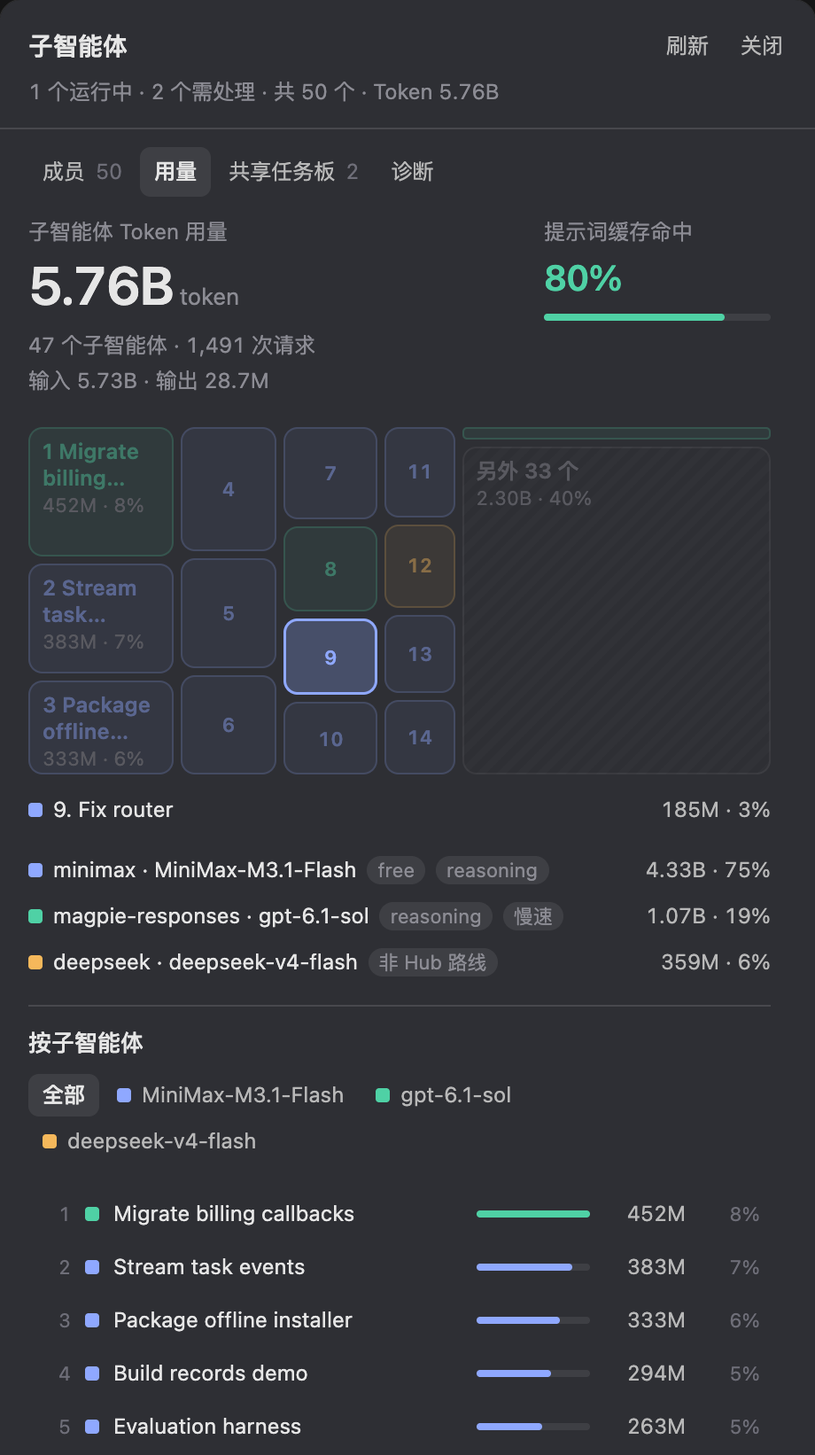
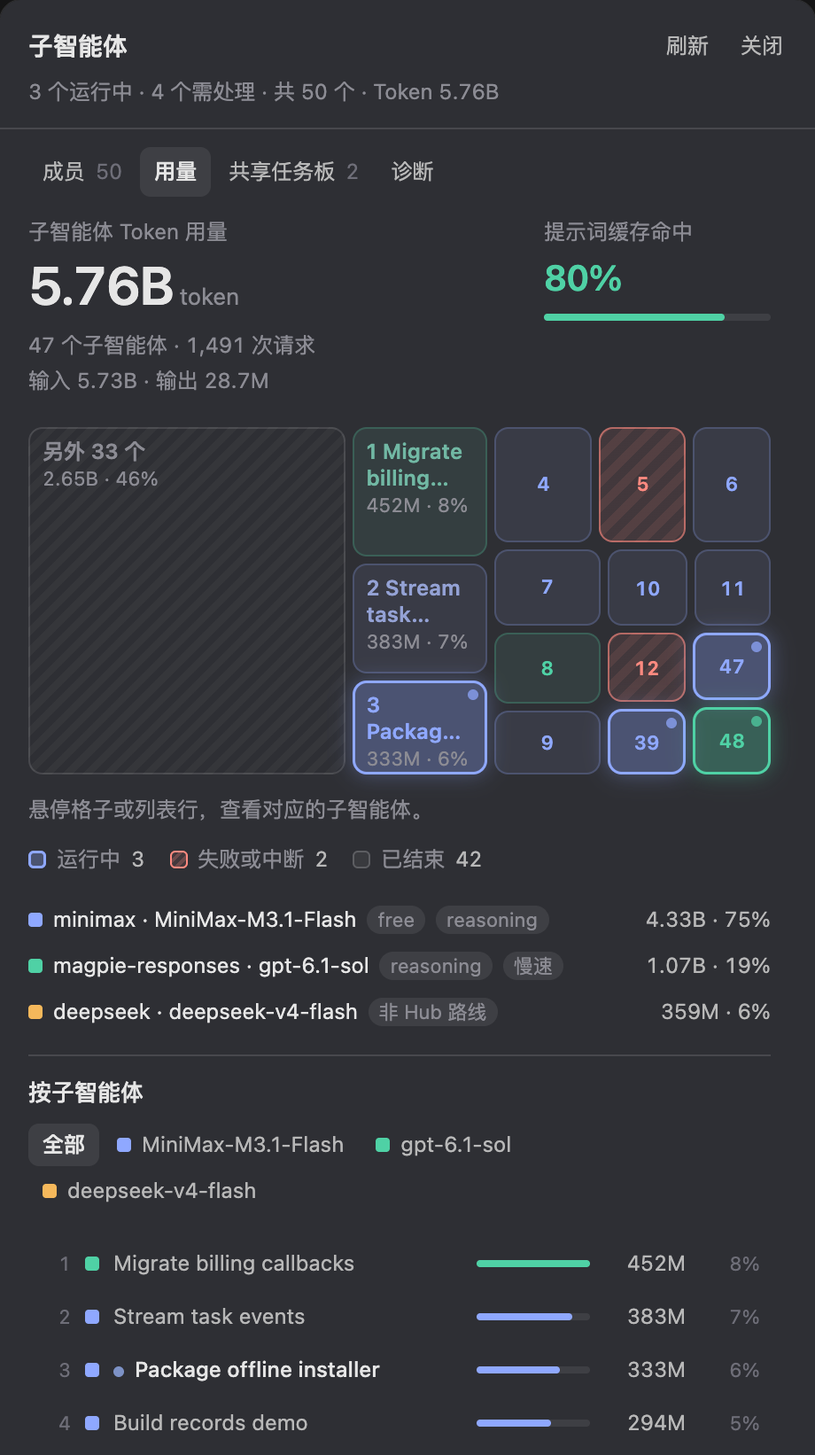
release: 0.12.1
Running agents always appear in the usage tab, and tiles read as running,
failed or interrupted, or finished. The usage screenshot follows the new look.

diff --git a/packages/subagent-hub/README.md b/packages/subagent-hub/README.md
@@ -1,15 +1,15 @@
 <p align="center">
-  <img src="https://raw.githubusercontent.com/ccsert/dsh-subagent-hub/v0.12.0/docs/assets/hero.webp" alt="Subagent Hub — Named roles. Clear routes. Visible models." width="100%">
+  <img src="https://raw.githubusercontent.com/ccsert/dsh-subagent-hub/v0.12.1/docs/assets/hero.webp" alt="Subagent Hub — Named roles. Clear routes. Visible models." width="100%">
 </p>
 
 <p align="center">
-  <a href="https://github.com/ccsert/dsh-subagent-hub/releases/tag/v0.12.0"><img src="https://img.shields.io/badge/version-0.12.0-66c8ab" alt="Version 0.12.0"></a>
-  <a href="https://github.com/ccsert/dsh-subagent-hub/blob/v0.12.0/LICENSE"><img src="https://img.shields.io/badge/license-MIT-blue" alt="MIT license"></a>
-  <a href="https://github.com/ccsert/dsh-subagent-hub/blob/v0.12.0/docs/install.md"><img src="https://img.shields.io/badge/DSH_Desktop-0.12.1-7087ad" alt="Tested with DSH Desktop 0.12.1"></a>
-  <a href="https://github.com/ccsert/dsh-subagent-hub/blob/v0.12.0/CONTRIBUTING.md"><img src="https://img.shields.io/badge/verified-248_unit_%2B_33_runtime-66c8ab" alt="248 unit tests and 33 runtime assertions verified"></a>
+  <a href="https://github.com/ccsert/dsh-subagent-hub/releases/tag/v0.12.1"><img src="https://img.shields.io/badge/version-0.12.1-66c8ab" alt="Version 0.12.1"></a>
+  <a href="https://github.com/ccsert/dsh-subagent-hub/blob/v0.12.1/LICENSE"><img src="https://img.shields.io/badge/license-MIT-blue" alt="MIT license"></a>
+  <a href="https://github.com/ccsert/dsh-subagent-hub/blob/v0.12.1/docs/install.md"><img src="https://img.shields.io/badge/DSH_Desktop-0.12.1-7087ad" alt="Tested with DSH Desktop 0.12.1"></a>
+  <a href="https://github.com/ccsert/dsh-subagent-hub/blob/v0.12.1/CONTRIBUTING.md"><img src="https://img.shields.io/badge/verified-249_unit_%2B_33_runtime-66c8ab" alt="249 unit tests and 33 runtime assertions verified"></a>
 </p>
 
-<p align="center"><a href="https://github.com/ccsert/dsh-subagent-hub/blob/v0.12.0/README.md">简体中文</a> · <b>English</b></p>
+<p align="center"><a href="https://github.com/ccsert/dsh-subagent-hub/blob/v0.12.1/README.md">简体中文</a> · <b>English</b></p>
 
 # Subagent Hub
 
@@ -17,7 +17,7 @@
 
 Uses official `subagent` / `subagent_fork` dispatch, Agent Presets, and conversation UI. Keep your existing main-agent preset.
 
-[Install](https://github.com/ccsert/dsh-subagent-hub/blob/v0.12.0/docs/install.md) · [Download a release](https://github.com/ccsert/dsh-subagent-hub/releases/latest) · [Configuration example](https://github.com/ccsert/dsh-subagent-hub/blob/v0.12.0/examples/subagent-hub.yml) · [Changelog](https://github.com/ccsert/dsh-subagent-hub/blob/v0.12.0/CHANGELOG.md) · [Contribute](https://github.com/ccsert/dsh-subagent-hub/blob/v0.12.0/CONTRIBUTING.md)
+[Install](https://github.com/ccsert/dsh-subagent-hub/blob/v0.12.1/docs/install.md) · [Download a release](https://github.com/ccsert/dsh-subagent-hub/releases/latest) · [Configuration example](https://github.com/ccsert/dsh-subagent-hub/blob/v0.12.1/examples/subagent-hub.yml) · [Changelog](https://github.com/ccsert/dsh-subagent-hub/blob/v0.12.1/CHANGELOG.md) · [Contribute](https://github.com/ccsert/dsh-subagent-hub/blob/v0.12.1/CONTRIBUTING.md)
 
 ## Features
 
@@ -35,7 +35,7 @@ Uses official `subagent` / `subagent_fork` dispatch, Agent Presets, and conversa
 
 An optional **Agent overview** is available, off by default. Enable **Show agent overview** under **Settings → Subagent Hub → General** and save to show the header entry immediately. Turning it off leaves the official Agent Team UI available.
 
-Since 0.12.0 it is a non-modal side monitor. The trigger shows the running count, turns amber for approvals, recent failures, or likely stalls, and counts new results while the panel is closed. Each card shows the task, the current tool call and its timer, approval waits, the agent's own plan, its latest report or output, and the model with the effort that actually ran; the details hold the last 12 steps. The **Usage** tab splits child tokens by the route each request used, with cache hits, a route-colored treemap, and Hub route tags. The activity digest comes from the plugin's own `subagentHubActivity` projection and keeps only short descriptive tool fields, never command lines or file contents. An inactive teammate is not a completed task; missing usage remains unknown.
+Since 0.12.1 it is a non-modal side monitor. The trigger shows the running count, turns amber for approvals, recent failures, or likely stalls, and counts new results while the panel is closed. Each card shows the task, the current tool call and its timer, approval waits, the agent's own plan, its latest report or output, and the model with the effort that actually ran; the details hold the last 12 steps. The **Usage** tab splits child tokens by the route each request used, with cache hits, a route-colored treemap, and Hub route tags. The activity digest comes from the plugin's own `subagentHubActivity` projection and keeps only short descriptive tool fields, never command lines or file contents. An inactive teammate is not a completed task; missing usage remains unknown.
 
 Diagnostics replays committed tool results to show the latest 64 Hub guard rejections and the recorded total. Other tool failures are outside this history. Opening or refreshing the panel performs read-only projection refreshes with at most four concurrent reads; it starts no model requests.
 
@@ -43,37 +43,37 @@ Diagnostics replays committed tool results to show the latest 64 Hub guard rejec
 
 **Models and named agents**
 
-![Actual configuration component with demo models and named agents](https://raw.githubusercontent.com/ccsert/dsh-subagent-hub/v0.12.0/docs/assets/settings.webp)
+![Actual configuration component with demo models and named agents](https://raw.githubusercontent.com/ccsert/dsh-subagent-hub/v0.12.1/docs/assets/settings.webp)
 
 **The latest child request**
 
-![Child header naming the model, with the full provider, model ID and reasoning effort in the details](https://raw.githubusercontent.com/ccsert/dsh-subagent-hub/v0.12.0/docs/assets/model-badge.webp)
+![Child header naming the model, with the full provider, model ID and reasoning effort in the details](https://raw.githubusercontent.com/ccsert/dsh-subagent-hub/v0.12.1/docs/assets/model-badge.webp)
 
 **Agent overview**
 
-![Overview monitor: each agent's task, current action, plan and report](https://raw.githubusercontent.com/ccsert/dsh-subagent-hub/v0.12.0/docs/assets/overview.webp)
+![Overview monitor: each agent's task, current action, plan and report](https://raw.githubusercontent.com/ccsert/dsh-subagent-hub/v0.12.1/docs/assets/overview.webp)
 
 **Usage by route**
 
-![Usage tab: total and cache hits, a route-colored treemap and ranked agents](https://raw.githubusercontent.com/ccsert/dsh-subagent-hub/v0.12.0/docs/assets/usage.webp)
+![Usage tab: total and cache hits, a route-colored treemap and ranked agents](https://raw.githubusercontent.com/ccsert/dsh-subagent-hub/v0.12.1/docs/assets/usage.webp)
 
-These are the actual plugin components rendered with demo data. They contain no user profile, private conversation, or credentials. See [screenshot provenance](https://github.com/ccsert/dsh-subagent-hub/blob/v0.12.0/docs/screenshots.md) for full-size and narrow views. The Hero was generated with [dsh-image-gen](https://github.com/shanliuling/dsh-image-gen).
+These are the actual plugin components rendered with demo data. They contain no user profile, private conversation, or credentials. See [screenshot provenance](https://github.com/ccsert/dsh-subagent-hub/blob/v0.12.1/docs/screenshots.md) for full-size and narrow views. The Hero was generated with [dsh-image-gen](https://github.com/shanliuling/dsh-image-gen).
 
 ## Quick start
 
 Tested with **DSH Desktop 0.12.1 / `@deepseek-ai/dsh` 0.2.1-rc.2**. Configure a working model provider in DSH first.
 
-1. Download `dsh-subagent-hub-0.12.0.tgz` from [Releases](https://github.com/ccsert/dsh-subagent-hub/releases/latest).
+1. Download `dsh-subagent-hub-0.12.1.tgz` from [Releases](https://github.com/ccsert/dsh-subagent-hub/releases/latest).
 2. Install it from the target profile directory:
 
    ```bash
-   pnpm add /absolute/path/to/dsh-subagent-hub-0.12.0.tgz
+   pnpm add /absolute/path/to/dsh-subagent-hub-0.12.1.tgz
    ```
 
 3. **Append** `"dsh-subagent-hub"` to `dsh.profile.bundles` in that profile's package manifest. Preserve existing bundles and restart DSH to load the plugin code.
 4. Open **Settings → Subagent Hub**, select models already available in your DSH, and add a role. Enable **Manage the official delegation settings** if you want Hub to synchronize the official allowlists. Save, then start a new conversation.
 
-Git checkout installation, profile locations, upgrades, and removal are covered in the [installation guide](https://github.com/ccsert/dsh-subagent-hub/blob/v0.12.0/docs/install.md). The package is published as [dsh-subagent-hub](https://www.npmjs.com/package/dsh-subagent-hub); fixed GitHub release archives are also available. The Team/inheritance guard requires 0.10.2 or newer.
+Git checkout installation, profile locations, upgrades, and removal are covered in the [installation guide](https://github.com/ccsert/dsh-subagent-hub/blob/v0.12.1/docs/install.md). The package is published as [dsh-subagent-hub](https://www.npmjs.com/package/dsh-subagent-hub); fixed GitHub release archives are also available. The Team/inheritance guard requires 0.10.2 or newer.
 
 ## Minimal configuration
 
@@ -159,7 +159,7 @@ What this saves is **expensive-model tokens**, not total cost, and it does not f
 
 ## Behavior to keep in mind
 
-- **Team context selects history.** In the supported runtime, fresh and fork both inherit the Lead model and have no model-selection input. For a specific child model, use a `subagent` tool whose actual schema exposes model selection. See [Team model routing](https://github.com/ccsert/dsh-subagent-hub/blob/v0.12.0/docs/team-model-routing.md).
+- **Team context selects history.** In the supported runtime, fresh and fork both inherit the Lead model and have no model-selection input. For a specific child model, use a `subagent` tool whose actual schema exposes model selection. See [Team model routing](https://github.com/ccsert/dsh-subagent-hub/blob/v0.12.1/docs/team-model-routing.md).
 - **Global routes also guard inheritance.** A nonempty `routes` list bounds all three creation tools; out-of-list or unconfirmed models are refused. An empty list retains native inheritance. Existing members and later request rewrites are outside this creation check.
 - **Tags guide decisions.** Tags such as `fast`, `reasoning`, or `free` are maintained by you. Use a role's `routes` for a hard route boundary. Tags do not verify pricing or implement automatic fallback.
 - **The guard runs before dispatch.** Model rewrites performed by other plugins during a later child request are outside this guard. Check those plugins when combining route policies.
@@ -167,7 +167,7 @@ What this saves is **expensive-model tokens**, not total cost, and it does not f
 - **Managed settings are opt-in.** `manageOfficialSettings` defaults to `false`. Enabling it synchronizes official allowlists. Disabling it stops syncing and retains settings already written.
 - **Managed writes are upgrade-safe.** The Hub owns only `allowedAgentPresets` on the spawn delegation row (`@deepseek-ai/dsh-tool-subagent` with `provider: spawn`) inside an official preset. Each successful write records a Hub-owned baseline in `cordis.patch.yml.subagent-hub-baseline.json`, and the first write of a run copies the profile patch to `cordis.patch.yml.backup-<timestamp>-subagent-hub` first. After a DSH upgrade, only a preset the Hub wrote and the user has not edited is re-derived wholesale from the new shipped preset; a user-edited preset gets additive repairs only and is marked foreign, so it is never rebased again. A frozen snapshot written by an older version self-heals on the next sync. The primary repair signal is the authoritative preset activation diagnostic (`agentPresets.list()` `broken`): only rows in a line ending exactly `: never started` are removed, and only when the current shipped preset does not declare them; `waiting for` pending rows and base-declared rows are never deleted. Package resolution is a conservative secondary signal: only the running installation's own resolution anchor may decide, a development symlink or profile-local copy can only make the answer ambiguous, and a row neither signal can judge is reported in the log, never deleted. The spawn row is then restored to the current shipped config plus `allowedAgentPresets`, and every other row is left untouched.
 - **Existing conversations keep their tool schema.** Saved configuration is live; use a new conversation for newly added roles or tool parameters. Plugin code upgrades require a DSH restart.
-- **Desktop model badges need 0.10.3 or newer.** This fixes the required native list-slot registration field. A component demo is distinct from a reload of the current Desktop window; see the [mounting fix record](https://github.com/ccsert/dsh-subagent-hub/blob/v0.12.0/docs/model-badge-acceptance.md).
+- **Desktop model badges need 0.10.3 or newer.** This fixes the required native list-slot registration field. A component demo is distinct from a reload of the current Desktop window; see the [mounting fix record](https://github.com/ccsert/dsh-subagent-hub/blob/v0.12.1/docs/model-badge-acceptance.md).
 - **The model badge shows request history.** `lastUsed` identifies the latest request; a different `next` selection is shown separately. A ready empty history says “No request yet”; unavailable data says “Unconfirmed.” A request record does not establish success or billing, and forked history may include inherited requests.
 - **The summary names the model; the details keep the ids.** The header summary shows the catalog display name the configuration page uses (for example `Qwen3.8-Flash · Qoder CN`), and falls back to `provider · id tail` when the catalog does not list the route. The expanded details, and a planned route in the agent overview, always keep the exact provider and model id as evidence.
 
@@ -181,8 +181,8 @@ bash test.sh           # real DSH integration in a temporary DSH_HOME
 npm run pack:check     # inspect the distributable archive
 ```
 
-This release is verified by **248 unit tests and 33 real-runtime assertions**. Integration uses scripted model streams and makes no external model calls. CI runs unit, documentation, and package checks. See the [settings acceptance record](https://github.com/ccsert/dsh-subagent-hub/blob/v0.12.0/docs/ui-acceptance.md) and [model badge acceptance record](https://github.com/ccsert/dsh-subagent-hub/blob/v0.12.0/docs/model-badge-acceptance.md) for scope and limitations. [Team routing verification](https://github.com/ccsert/dsh-subagent-hub/blob/v0.12.0/docs/team-model-routing.md) covers the new creation checks.
+This release is verified by **249 unit tests and 33 real-runtime assertions**. Integration uses scripted model streams and makes no external model calls. CI runs unit, documentation, and package checks. See the [settings acceptance record](https://github.com/ccsert/dsh-subagent-hub/blob/v0.12.1/docs/ui-acceptance.md) and [model badge acceptance record](https://github.com/ccsert/dsh-subagent-hub/blob/v0.12.1/docs/model-badge-acceptance.md) for scope and limitations. [Team routing verification](https://github.com/ccsert/dsh-subagent-hub/blob/v0.12.1/docs/team-model-routing.md) covers the new creation checks.
 
-Issues and PRs are welcome. Read [CONTRIBUTING](https://github.com/ccsert/dsh-subagent-hub/blob/v0.12.0/CONTRIBUTING.md), the [design notes](https://github.com/ccsert/dsh-subagent-hub/blob/v0.12.0/docs/design.md), and the [release guide](https://github.com/ccsert/dsh-subagent-hub/blob/v0.12.0/docs/releasing.md). The previous v0.3.0 architecture remains available at its tag.
+Issues and PRs are welcome. Read [CONTRIBUTING](https://github.com/ccsert/dsh-subagent-hub/blob/v0.12.1/CONTRIBUTING.md), the [design notes](https://github.com/ccsert/dsh-subagent-hub/blob/v0.12.1/docs/design.md), and the [release guide](https://github.com/ccsert/dsh-subagent-hub/blob/v0.12.1/docs/releasing.md). The previous v0.3.0 architecture remains available at its tag.
 
-[MIT License](https://github.com/ccsert/dsh-subagent-hub/blob/v0.12.0/LICENSE) · Maintained by [ccsert](https://github.com/ccsert)
+[MIT License](https://github.com/ccsert/dsh-subagent-hub/blob/v0.12.1/LICENSE) · Maintained by [ccsert](https://github.com/ccsert)

diff --git a/README.md b/README.md
@@ -3,10 +3,10 @@
 </p>
 
 <p align="center">
-  <a href="https://github.com/ccsert/dsh-subagent-hub/releases/tag/v0.12.0"><img src="https://img.shields.io/badge/version-0.12.0-66c8ab" alt="Version 0.12.0"></a>
+  <a href="https://github.com/ccsert/dsh-subagent-hub/releases/tag/v0.12.1"><img src="https://img.shields.io/badge/version-0.12.1-66c8ab" alt="Version 0.12.1"></a>
   <a href="LICENSE"><img src="https://img.shields.io/badge/license-MIT-blue" alt="MIT license"></a>
   <a href="docs/install.md"><img src="https://img.shields.io/badge/DSH_Desktop-0.12.1-7087ad" alt="Tested with DSH Desktop 0.12.1"></a>
-  <a href="CONTRIBUTING.md"><img src="https://img.shields.io/badge/verified-248_unit_%2B_33_runtime-66c8ab" alt="248 unit tests and 33 runtime assertions verified"></a>
+  <a href="CONTRIBUTING.md"><img src="https://img.shields.io/badge/verified-249_unit_%2B_33_runtime-66c8ab" alt="249 unit tests and 33 runtime assertions verified"></a>
 </p>
 
 <p align="center"><b>简体中文</b> · <a href="README.en.md">English</a></p>
@@ -36,7 +36,7 @@
 
 可选的 **子智能体总览** 默认关闭。在「设置 → 子代理中枢 → 基础设置」打开「显示子智能体总览」并保存，标题栏入口随即显示；关闭后仍可使用官方智能体团队界面。
 
-0.12.0 起它是一个不遮挡对话的右侧监控栏：
+0.12.1 起它是一个不遮挡对话的右侧监控栏：
 
 - **入口即状态**：按钮显示运行数；有子 agent 等待审批、一小时内中断或失败、或疑似卡住时变黄；关闭面板期间有子 agent 完成回合或发来汇报时显示蓝色计数。
 - **卡片回答“它在干什么”**：任务、正在调用的工具与计时、审批等待、自己的计划进度、最近汇报或输出、模型与实际推理强度（含“模型默认”）；展开可见最近 12 步时间线。
@@ -71,11 +71,11 @@
 
 已验证环境：**DSH Desktop 0.12.1 / `@deepseek-ai/dsh` 0.2.1-rc.2**。先在 DSH 中配置好可以调用的模型供应商。
 
-1. 在 [Release](https://github.com/ccsert/dsh-subagent-hub/releases/latest) 下载 `dsh-subagent-hub-0.12.0.tgz`。
+1. 在 [Release](https://github.com/ccsert/dsh-subagent-hub/releases/latest) 下载 `dsh-subagent-hub-0.12.1.tgz`。
 2. 在目标 profile 目录安装归档：
 
    ```bash
-   pnpm add /absolute/path/to/dsh-subagent-hub-0.12.0.tgz
+   pnpm add /absolute/path/to/dsh-subagent-hub-0.12.1.tgz
    ```
 
 3. 向该 profile 的 `package.json` 中 `dsh.profile.bundles` **追加** `"dsh-subagent-hub"`，保留原有 bundle；重启 DSH 加载插件代码。
@@ -192,7 +192,7 @@ bash test.sh           # 真实 DSH 运行时集成验证，使用临时 DSH_HOM
 npm run pack:check     # 检查将交付的 npm 格式归档
 ```
 
-本版本验证了 **248 项单元测试和 33 项真实运行时断言**，并通过安装包中实际 Desktop 插槽注册器的独立回归。集成测试使用脚本化模型流，不调用外部模型。CI 运行单测、文档检查和打包检查；真实运行时验证另见[配置页验收](docs/ui-acceptance.md)、[模型标识验收](docs/model-badge-acceptance.md)和 [Team 路由验证](docs/team-model-routing.md)。
+本版本验证了 **249 项单元测试和 33 项真实运行时断言**，并通过安装包中实际 Desktop 插槽注册器的独立回归。集成测试使用脚本化模型流，不调用外部模型。CI 运行单测、文档检查和打包检查；真实运行时验证另见[配置页验收](docs/ui-acceptance.md)、[模型标识验收](docs/model-badge-acceptance.md)和 [Team 路由验证](docs/team-model-routing.md)。
 
 欢迎通过 [Issues](https://github.com/ccsert/dsh-subagent-hub/issues) 报告问题或提交 PR。架构、验证环境和发版步骤见 [CONTRIBUTING](CONTRIBUTING.md)、[设计说明](docs/design.md)和[发布指南](docs/releasing.md)。v0.3.0 的旧架构保留在对应 tag 中。
 

diff --git a/README.en.md b/README.en.md
@@ -3,10 +3,10 @@
 </p>
 
 <p align="center">
-  <a href="https://github.com/ccsert/dsh-subagent-hub/releases/tag/v0.12.0"><img src="https://img.shields.io/badge/version-0.12.0-66c8ab" alt="Version 0.12.0"></a>
+  <a href="https://github.com/ccsert/dsh-subagent-hub/releases/tag/v0.12.1"><img src="https://img.shields.io/badge/version-0.12.1-66c8ab" alt="Version 0.12.1"></a>
   <a href="LICENSE"><img src="https://img.shields.io/badge/license-MIT-blue" alt="MIT license"></a>
   <a href="docs/install.md"><img src="https://img.shields.io/badge/DSH_Desktop-0.12.1-7087ad" alt="Tested with DSH Desktop 0.12.1"></a>
-  <a href="CONTRIBUTING.md"><img src="https://img.shields.io/badge/verified-248_unit_%2B_33_runtime-66c8ab" alt="248 unit tests and 33 runtime assertions verified"></a>
+  <a href="CONTRIBUTING.md"><img src="https://img.shields.io/badge/verified-249_unit_%2B_33_runtime-66c8ab" alt="249 unit tests and 33 runtime assertions verified"></a>
 </p>
 
 <p align="center"><a href="README.md">简体中文</a> · <b>English</b></p>
@@ -56,11 +56,11 @@ These are the actual plugin components rendered with demo data. They contain no 
 
 Tested with **DSH Desktop 0.12.1 / `@deepseek-ai/dsh` 0.2.1-rc.2**. Configure a working model provider in DSH first.
 
-1. Download `dsh-subagent-hub-0.12.0.tgz` from [Releases](https://github.com/ccsert/dsh-subagent-hub/releases/latest).
+1. Download `dsh-subagent-hub-0.12.1.tgz` from [Releases](https://github.com/ccsert/dsh-subagent-hub/releases/latest).
 2. Install it from the target profile directory:
 
    ```bash
-   pnpm add /absolute/path/to/dsh-subagent-hub-0.12.0.tgz
+   pnpm add /absolute/path/to/dsh-subagent-hub-0.12.1.tgz
    ```
 
 3. **Append** `"dsh-subagent-hub"` to `dsh.profile.bundles` in that profile's package manifest. Preserve existing bundles and restart DSH to load the plugin code.
@@ -174,7 +174,7 @@ bash test.sh           # real DSH integration in a temporary DSH_HOME
 npm run pack:check     # inspect the distributable archive
 ```
 
-This release is verified by **248 unit tests and 33 real-runtime assertions**. Integration uses scripted model streams and makes no external model calls. CI runs unit, documentation, and package checks. See the [settings acceptance record](docs/ui-acceptance.md) and [model badge acceptance record](docs/model-badge-acceptance.md) for scope and limitations. [Team routing verification](docs/team-model-routing.md) covers the new creation checks.
+This release is verified by **249 unit tests and 33 real-runtime assertions**. Integration uses scripted model streams and makes no external model calls. CI runs unit, documentation, and package checks. See the [settings acceptance record](docs/ui-acceptance.md) and [model badge acceptance record](docs/model-badge-acceptance.md) for scope and limitations. [Team routing verification](docs/team-model-routing.md) covers the new creation checks.
 
 Issues and PRs are welcome. Read [CONTRIBUTING](CONTRIBUTING.md), the [design notes](docs/design.md), and the [release guide](docs/releasing.md). The previous v0.3.0 architecture remains available at its tag.
 

diff --git a/docs/releasing.md b/docs/releasing.md
@@ -31,17 +31,17 @@ npm pack ./packages/subagent-hub --ignore-scripts --pack-destination output/rele
 
 Inspect the resulting file list and checksum before uploading. The archive should contain runtime code, locale files, the bundle patch, package metadata, a package README, and MIT license. It should not contain tests, generated fixture HTML, profile data, documentation screenshots, or node_modules.
 
-For version 0.12.0:
+For version 0.12.1:
 
 ```bash
-tar -tzf output/releases/dsh-subagent-hub-0.12.0.tgz
-shasum -a 256 output/releases/dsh-subagent-hub-0.12.0.tgz
+tar -tzf output/releases/dsh-subagent-hub-0.12.1.tgz
+shasum -a 256 output/releases/dsh-subagent-hub-0.12.1.tgz
 ```
 
 Write a standard checksum file containing the hash and archive basename so downloaders can verify it in the same directory:
 
 ```bash
-shasum -a 256 -c dsh-subagent-hub-0.12.0.tgz.sha256
+shasum -a 256 -c dsh-subagent-hub-0.12.1.tgz.sha256
 ```
 
 ## Publish on GitHub
@@ -51,12 +51,12 @@ Commit the reviewed changes, push the branch, and wait for CI. Tag that exact co
 Example for this release:
 
 ```bash
-gh release create v0.12.0 \
-  output/releases/dsh-subagent-hub-0.12.0.tgz \
-  output/releases/dsh-subagent-hub-0.12.0.tgz.sha256 \
+gh release create v0.12.1 \
+  output/releases/dsh-subagent-hub-0.12.1.tgz \
+  output/releases/dsh-subagent-hub-0.12.1.tgz.sha256 \
   docs/assets/hero.png \
   --verify-tag \
-  --title "Subagent Hub v0.12.0" \
+  --title "Subagent Hub v0.12.1" \
   --notes-file output/releases/release-notes.md
 ```
 
@@ -70,7 +70,7 @@ The account uses `auth-and-writes` two-factor authentication, so npm requires **
 
 ```bash
 npm whoami
-npx --yes npm@12.2.1 stage publish output/releases/dsh-subagent-hub-0.12.0.tgz
+npx --yes npm@12.2.1 stage publish output/releases/dsh-subagent-hub-0.12.1.tgz
 npx --yes npm@12.2.1 stage list          # copy the stage id
 npx --yes npm@12.2.1 stage approve <stage-id>
 ```

diff --git a/docs/design.md b/docs/design.md
@@ -1,6 +1,6 @@
 # dsh-subagent-hub 设计（v2）
 
-> 状态：0.12.0（路线推理强度生效、白名单报错无歧义、子智能体总览改为实时监控与按路线用量），单元测试 248 项 + 真实运行时 e2e 33 项；另有浏览器交互验收。
+> 状态：0.12.1（用量页按状态区分并始终显示运行中的子智能体；路线推理强度生效、白名单报错无歧义、子智能体总览改为实时监控与按路线用量），单元测试 249 项 + 真实运行时 e2e 33 项；另有浏览器交互验收。
 > 目标运行时：`@deepseek-ai/dsh` 0.2.1-rc.2（DSH Desktop 0.12.1）。
 > 旧方案（M0–M4）完整保留在 git tag **v0.3.0**，作为回滚点。
 
@@ -218,7 +218,7 @@ v1 的 M0 spike（[`spikes/m0-runtime/README.md`](../spikes/m0-runtime/README.md
 
 ## 7. 测试与验收
 
-`bash test.sh`：248 项单元测试 + 33 项 e2e 断言（真实 `dsh`，临时 `DSH_HOME`，无模型凭据，`llm/stream` 脚本化）。
+`bash test.sh`：249 项单元测试 + 33 项 e2e 断言（真实 `dsh`，临时 `DSH_HOME`，无模型凭据，`llm/stream` 脚本化）。
 
 e2e 断言覆盖：具名预设注册成功；`manageOfficialSettings` 写入预设行与模型设置；路由表与 Host 设置一致；spawn 行拿到 allowlist、fork 行不动；主 agent 的官方 `subagent` schema 出现 `agent_preset` / `provider` / `model` / `reasoning_effort`；prompt 段落含目录；越界 `provider/model` 被守卫拒绝；具名 agent 通过 `agent_preset` 生效且 persona 含 instructions；省略路由时继承父路由；普通子 agent 不被具名守卫限制；client bundle 上架；配置行有可写表单；通过 Host settings 服务 live 新增具名 agent 后，预设、`allowedAgentPresets`、新会话 schema、persona 全部更新。
 

diff --git a/docs/install.md b/docs/install.md
@@ -4,7 +4,7 @@
 
 已验证：**DSH Desktop 0.12.1 / `@deepseek-ai/dsh` 0.2.1-rc.2**。插件使用官方 Agent Presets、模型选择和会话投影接口。先在 DSH 中配置并验证要使用的模型供应商。
 
-CLI 管理的独立 profile 可以使用 `dsh plugin --profile web add dsh-subagent-hub@0.12.0`。Desktop 用户应使用应用自身的插件安装/管理入口；若按下文手动修改 Desktop profile，先退出应用，完成后再启动。
+CLI 管理的独立 profile 可以使用 `dsh plugin --profile web add dsh-subagent-hub@0.12.1`。Desktop 用户应使用应用自身的插件安装/管理入口；若按下文手动修改 Desktop profile，先退出应用，完成后再启动。
 
 ## 1. 找到目标 profile
 
@@ -18,10 +18,10 @@ export DSH_PROFILE_DIR="$HOME/Library/Application Support/dsh-desktop/harness/pr
 
 ## 2. 安装插件包
 
-推荐从 [v0.12.0 Release](https://github.com/ccsert/dsh-subagent-hub/releases/tag/v0.12.0) 的 Assets 下载 `dsh-subagent-hub-0.12.0.tgz`。同页提供 SHA-256 校验文件。
+推荐从 [v0.12.1 Release](https://github.com/ccsert/dsh-subagent-hub/releases/tag/v0.12.1) 的 Assets 下载 `dsh-subagent-hub-0.12.1.tgz`。同页提供 SHA-256 校验文件。
 
 ```bash
-pnpm --dir "${DSH_PROFILE_DIR:?}" add /absolute/path/to/dsh-subagent-hub-0.12.0.tgz
+pnpm --dir "${DSH_PROFILE_DIR:?}" add /absolute/path/to/dsh-subagent-hub-0.12.1.tgz
 ```
 
 从仓库检出安装时，包目录位于仓库的 `packages/subagent-hub`，不是仓库根目录：

diff --git a/docs/assets/README.md b/docs/assets/README.md
@@ -22,7 +22,7 @@ The Hero is project artwork. It does not depict a working product screen. The se
 | [Model badge](model-badge.webp) | 976 × 222 | Actual header contribution and the installed official conversation header CSS; the chip shows a demo catalog name, the panel the recorded ids |
 | [Narrow model badge](model-badge-narrow.webp) | 304 × 242 | The same component in a 320px viewport, where the chip label collapses and the panel carries the evidence |
 | [Agent overview](overview.webp) | 920 × 1226 | Actual overview monitor (members tab) at 2× with synthetic native session stores, a synthetic `subagentHubActivity` digest and the installed dark-theme token values |
-| [Usage by route](usage.webp) | 920 × 1642 | Same component on its usage tab with 45 synthetic agents on three demo routes; tile 9 is hovered to show rank linking |
+| [Usage by route](usage.webp) | 920 × 1642 | Same component on its usage tab with 45 synthetic agents on three demo routes, including running (bright edge, pulse) and interrupted (red hatch) agents |
 
 Screenshots were captured with Playwright and encoded to lossless WebP. Matching PNG files are retained. The fixtures use in-memory configuration, Session faces, and a demo model catalog that only supplies display names; no user profile, private conversation, provider credential, or external model response is included. UI controls were not redrawn or fabricated.
 

diff --git a/CONTRIBUTING.md b/CONTRIBUTING.md
@@ -23,7 +23,7 @@ bash test.sh
 
 The full suite requires a compatible installed DSH runtime. See [the e2e runner](packages/subagent-hub/test/e2e/run.sh) for discovery and override variables. It creates an isolated temporary `DSH_HOME`, registers the real bundle, exercises official subagent dispatch, and intercepts the model stream. No production profile or model account is used.
 
-Unit tests are suitable for CI without a DSH install. This release has 248 unit tests and 33 runtime assertions; the CI workflow runs units, documentation, and package checks. Runtime assertions are a separate local gate, not a claim that CI contacted real model providers.
+Unit tests are suitable for CI without a DSH install. This release has 249 unit tests and 33 runtime assertions; the CI workflow runs units, documentation, and package checks. Runtime assertions are a separate local gate, not a claim that CI contacted real model providers.
 
 The full runtime gate includes independent delegation, the opt-in native Team bundle, and a native slot-consumer regression. The latter reads the installed Desktop renderer (or SDK fallback) and checks the real list registration contract without controlling the user window. See [Team routing](docs/team-model-routing.md) for schema, inheritance, and rejected-member checks.
 

diff --git a/CHANGELOG.md b/CHANGELOG.md
@@ -1,8 +1,10 @@
 # Changelog
 
-## Unreleased
+## 0.12.1 — 用量页始终显示运行中的子智能体，并按状态区分色块
 
 - 用量页：运行中的子智能体始终单独成格（还没有用量时也有最小面积），折叠的列表也会保留它们；格子按状态区分外观：运行中为亮边加脉动点，失败或中断为红色斜纹，已结束变暗；树图下方显示三种状态的数量。“另外 N 个”格子按面积参与排布，不再挤出细长条。
+- 文档：用量页截图按新外观重拍。
+- 验证：249 项单元测试、33 项真实运行时断言（含 Team）与已安装 Desktop 插槽回归（`bash test.sh`）。
 
 ## 0.12.0 — 路线推理强度生效，子智能体总览改为实时监控
 
